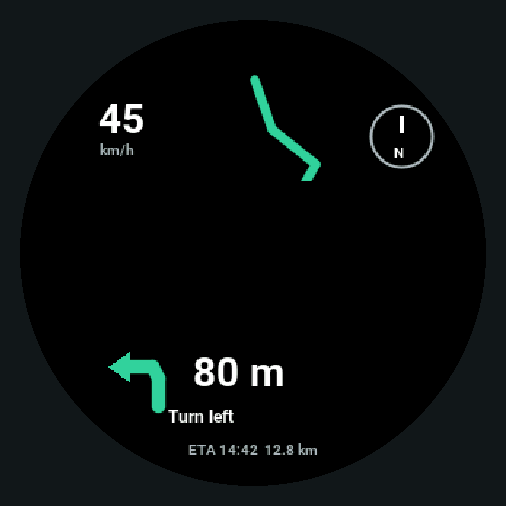
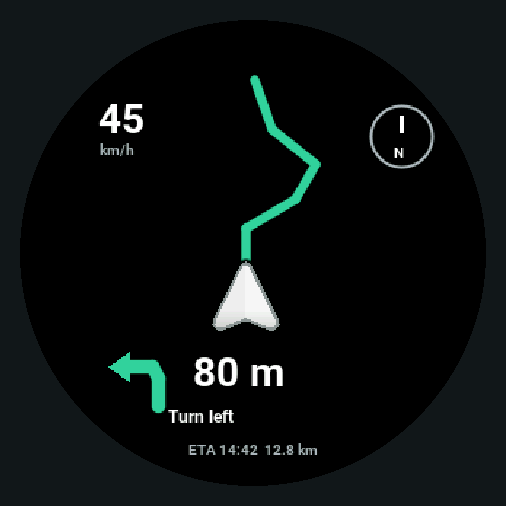
Move turn alerts to left and preserve off-route retry status

Changed region(s): [[0.415, 0.3557, 0.6225, 0.6522]]

diff --git a/tools/preview_round.py b/tools/preview_round.py
@@ -129,16 +129,24 @@ __declspec(dllexport) int render_round(void) {
     assert(memcmp(previous,capture_pixels(),sizeof previous));
     for(int yy=0;yy<320;yy++)for(int xx=0;xx<320;xx++) {
         unsigned at=(yy*320+xx)*2;
-        if(xx>=45 && xx<275 && yy>=111 && yy<211)
-            assert(capture_pixels()[at]==0 && capture_pixels()[at+1]==0);
-        else assert(previous[at]==capture_pixels()[at] && previous[at+1]==capture_pixels()[at+1]);
+        if(xx<32 || xx>=109 || yy<127 || yy>=177)
+            assert(previous[at]==capture_pixels()[at] && previous[at+1]==capture_pixels()[at+1]);
     }
+    memcpy(previous,capture_pixels(),sizeof previous);
+    v.maneuver_state=5;round_ui_navigation(&v);
+    assert(!memcmp(previous,capture_pixels(),sizeof previous)); // Blink off preserves the full map and pointer.
+    v.maneuver_state=3;
     v.nav.direction=5;v.blink_on=true;
     round_ui_navigation(&v);capture_save("turn-right-on.rgb565");
     v.blink_on=false;round_ui_navigation(&v);capture_save("turn-right-off.rgb565");
     v.recovery=RIDE_STALE;round_ui_navigation(&v);capture_save("stale-data.rgb565");
     v.recovery=RIDE_RECONNECTING;round_ui_navigation(&v);capture_save("reconnecting.rgb565");
     v.recovery=RIDE_GPS_WEAK;round_ui_navigation(&v);capture_save("gps-weak.rgb565");
+    v.recovery=RIDE_REROUTING;strcpy(v.nav.instruction,"Off route - rerouting");
+    round_ui_navigation(&v);capture_save("off-route-recalculating.rgb565");
+    strcpy(v.nav.instruction,"Off route - retrying");
+    round_ui_navigation(&v);capture_save("off-route-retrying.rgb565");
+    strcpy(v.nav.instruction,"");
     v.recovery=RIDE_LIVE;v.nav.distance_m=300;v.battery_low=true;v.battery_percent=12;
     round_ui_navigation(&v);capture_save("low-battery.rgb565");v.battery_low=false;
     round_ui_arrival();capture_save("arrival.rgb565");
@@ -205,6 +213,11 @@ for i,(name,label) in enumerate([
     ux.paste(Image.open(OUT/(name+'.png')),(x,y+35))
 d.text((20,1630),'Production renderer / SAMPLE data. Each round display is 466 x 466 pixels. Hardware test still required.',fill='white')
 ux.save(OUT/'ride-experience.png')
+recovery=Image.new('RGB',(1530,570),'#111719');d=ImageDraw.Draw(recovery)
+for i,(name,label) in enumerate([('turn-left-on','MEDIUM LEFT-SIDE TURN ALERT / MAP VISIBLE'),('off-route-recalculating','CONFIRMED OFF ROUTE / RECALCULATING'),('off-route-retrying','REQUEST FAILED / ALERT RETAINED')]):
+    d.text((i*510+15,12),label,fill='white');recovery.paste(Image.open(OUT/(name+'.png')),(i*510,35))
+d.text((15,550),'Production C renderer / SAMPLE telemetry. Physical board and live navigation still need testing.',fill='white')
+recovery.save(OUT/'left-alert-rerouting.png')
 guide=Image.new('RGB',(1020,570),'#111719');d=ImageDraw.Draw(guide)
 for i,(name,label) in enumerate([('u-turn','U-TURN / CURRENT IMPLEMENTATION'),('flyover-current','FLYOVER REQUEST / CURRENT GENERIC EXIT FALLBACK')]):
     d.text((i*510+15,12),label,fill='white')

diff --git a/main/display/round_ui.c b/main/display/round_ui.c
@@ -128,10 +128,13 @@ static void turn_arrow(uint8_t direction) {
 static void turn_chevrons(int side) {
     // Same six-point silhouette as the supplied reference, mirrored for right.
     for(int i=0;i<3;i++) {
-        int x=96+i*36,y=116;
-        int px[]={x+35,x+58,x+23,x+58,x+35,x};
-        int py[]={y,y,y+42,y+84,y+84,y+42};
-        if(side>0)for(int j=0;j<6;j++)px[j]=320-px[j];
+        int px[]={35,58,23,58,35,0};
+        int py[]={0,0,42,84,84,42};
+        for(int j=0;j<6;j++) {
+            if(side>0)px[j]=58-px[j];
+            px[j]=32+i*21+lroundf(px[j]*0.58f);
+            py[j]=127+lroundf(py[j]*0.58f);
+        }
         uint16_t c=i==1?GREEN:shade(GREEN,0.70f);
         tft_fill_triangle(px[0],py[0],px[1],py[1],px[2],py[2],c);
         tft_fill_triangle(px[0],py[0],px[2],py[2],px[5],py[5],c);
@@ -159,11 +162,8 @@ static void draw_nav(void *context) {
     if(v->count<2)text(160,125,"WAITING FOR ROUTE",12,MUTED);
     int rider_x=RIDER_X,rider_y=RIDER_Y;
     if(v->overview && v->count){point_t p=route_point(v,0);rider_x=lroundf(p.x);rider_y=lroundf(p.y);}
-    if(live && !alert)arrow(rider_x,rider_y,v->overview?m->heading:v->tilt);
-    if(alert) {
-        tft_fill_rect(45,111,230,100,BLACK);
-        if(v->blink_on)turn_chevrons(ride_turn_side(m->direction));
-    }
+    if(live)arrow(rider_x,rider_y,v->overview?m->heading:v->tilt);
+    if(alert && v->blink_on)turn_chevrons(ride_turn_side(m->direction));
     char value[24];
     if(m->speed_valid && live)snprintf(value,sizeof(value),"%u",m->speed);
     else strcpy(value,"--");
@@ -191,10 +191,13 @@ static void draw_nav(void *context) {
     if(live && v->trip_valid)snprintf(value,sizeof(value),"ETA %s  %.1f km",v->arrival_time[0]?v->arrival_time:"--:--",m->remaining_km);
     else strcpy(value,"ETA --:--   -- km");
     text(160,289,value,10,MUTED);
-    static const char *states[]={"","RECONNECTING","SYNCING ROUTE","GPS WEAK","REROUTING","PAUSED","WAITING FOR PHONE"};
+    static const char *states[]={"","RECONNECTING","SYNCING ROUTE","GPS WEAK","OFF ROUTE","PAUSED","WAITING FOR PHONE"};
     if(!live) {
         text(160,24,states[v->recovery<=RIDE_STALE?v->recovery:RIDE_STALE],12,GREEN);
-        text(160,100,"LAST ROUTE - DATA STALE",10,MUTED);
+        const char *status=v->recovery==RIDE_REROUTING
+            ? (strstr(m->instruction,"retrying")?"RETRYING ROUTE":"RECALCULATING ROUTE")
+            : "LAST ROUTE - DATA STALE";
+        text(160,100,status,10,MUTED);
     } else if(v->battery_low) {
         snprintf(value,sizeof(value),"LOW BATTERY ~%u%%",v->battery_percent);
         text(160,24,value,10,GREEN);

diff --git a/main/ble/ble.c b/main/ble/ble.c
@@ -928,7 +928,7 @@ static int ble_nav_data_access(uint16_t conn_handle, uint16_t attr_handle,
         if(opcode==NAV_OP_PAUSE || (flags&(1<<4))) {
             strncpy(nav_data.current_street,"PAUSED",sizeof(nav_data.current_street)-1);
         } else if (opcode == NAV_OP_REROUTE || is_reroute) {
-            strncpy(nav_data.current_street, "REROUTING...", sizeof(nav_data.current_street) - 1);
+            strncpy(nav_data.current_street, street_buf[0]?street_buf:"REROUTING...", sizeof(nav_data.current_street) - 1);
         } else if (opcode == NAV_OP_ARRIVED) {
             strncpy(nav_data.current_street, "DESTINATION REACHED", sizeof(nav_data.current_street) - 1);
         } else {

diff --git a/main/display/display.c b/main/display/display.c
@@ -1013,7 +1013,7 @@ static void display_nav_render_partial(void) {
     if(!s_ble_connected)instruction="PHONE OFFLINE";
     else if(!s_phone_state_ready)instruction="SYNCING";
     else if(!s_nav.gps_available)instruction="GPS LOST";
-    else if(s_nav.rerouting)instruction="REROUTING";
+    else if(s_nav.rerouting)instruction=s_nav.current_street;
   }
   snprintf(model.instruction,sizeof(model.instruction),"%s",instruction);
   for(int i=0;i<2;i++){model.poi_valid[i]=s_pois[i].poi_type==i+1 && s_pois[i].poi_name[0];model.poi_distance[i]=s_pois[i].poi_distance_m;}

diff --git a/WAVESHARE_143.md b/WAVESHARE_143.md
@@ -18,10 +18,11 @@ coordinates are mapped through the same transform.
 
 ### Riding experience
 
-- Within 100 m of a left/right maneuver, three large **green chevrons** use the
-  supplied reference silhouette, mirrored for right. They blink 500 ms on / 500
-  ms off. The smaller direction arrow and distance remain visible during blink
-  off. Completed maneuvers, overview, paused or unreliable guidance do not blink.
+- Within 100 m of a left/right maneuver, three medium **green chevrons on the left**
+  use the supplied reference silhouette. Right-turn chevrons mirror inside that
+  same left-side area. They blink 500 ms on / 500 ms off. The route and white rider
+  pointer remain visible in both phases; no large black rectangle covers the map.
+  Completed maneuvers, overview, paused or unreliable guidance do not blink.
 - The lower guidance panel includes arrival clock time (24-hour `ETA HH:MM`) and
   total remaining kilometres from the phone's existing route telemetry. A valid
   phone-synchronized clock is required for ETA; unavailable values show dashes.
@@ -33,6 +34,15 @@ coordinates are mapped through the same transform.
   This does **not** refresh an old GPS fix: fixes older than ten seconds or with
   accuracy worse than 50 m produce `GPS WEAK` on the display and suppress turn
   alerts. The existing longer phone GPS recovery loop continues in the background.
+- Confirmed off-route detection shows **OFF ROUTE / RECALCULATING ROUTE** on the
+  device and an off-route banner on the phone. Failed/empty route responses retain
+  the warning as **RETRYING ROUTE**, with the old route dimmed and old turn guidance
+  suppressed. Requests back off from 20 to 80 seconds after failures and retry on
+  a fresh accurate GPS update. Initial confirmation still requires movement,
+  accurate fixes, three outside-corridor samples and four seconds of deviation.
+  Once confirmed, retry can continue while stationary. Between requests, accurate
+  moving fixes back inside the original corridor clear the warning without another request. A new
+  route resets guidance and geometry; a response after Stop is ignored.
 - `LOW BATTERY` appears on navigation at an estimated level ≤15%, only when supply
   measurements infer battery power. Five consecutive one-second low samples
   trigger one notification; it rearms after USB power or an estimate ≥20%. Missing
@@ -50,6 +60,7 @@ coordinates are mapped through the same transform.
 [Left turn blink, native 466×466](docs/previews/turn-left-blink-466.gif) ·
 [Right turn blink, native 466×466](docs/previews/turn-right-blink-466.gif) ·
 [Arrival, native 466×466](docs/previews/arrival-native.png).
+![Medium left alert and rerouting states — SAMPLE telemetry](docs/previews/left-alert-rerouting.png)
 The preview's outside margin is decorative; the actual panel is 466×466.
 The firmware retains its existing 320×320 logical drawing canvas and maps it
 through the production panel transform. No photograph or hardware timing is claimed.

diff --git a/WAVESHARE_143_VALIDATION.md b/WAVESHARE_143_VALIDATION.md
@@ -4,8 +4,8 @@ Software verification passed before pushing this branch.
 
 | Check | Result |
 |---|---|
-| ESP-IDF 5.5.5 / ESP32-S3 build | Pass; application 822,016 bytes, 54% OTA-slot space free |
-| ESP-IDF 5.5.5 / original ESP32 2.8-inch build | Pass; application 769,312 bytes, 57% OTA-slot space free |
+| ESP-IDF 5.5.5 / ESP32-S3 build | Pass; application 822,256 bytes, 54% OTA-slot space free |
+| ESP-IDF 5.5.5 / original ESP32 2.8-inch build | Pass; application 769,328 bytes, 57% OTA-slot space free |
 | Actual QSPI transport with mocked SPI/GPIO | Pass for SH8601 and CO5300 IDs/offsets, fragmented writes, even-row DMA and unchanged-row suppression |
 | Actual FT3168 driver with mocked I2C | Pass for contact mapping, release and read failure |
 | Round C renderer and geometry | Pass; all preview screens generated from the production functions |
@@ -21,6 +21,8 @@ Software verification passed before pushing this branch.
 | Both panel standby transports | Pass with mocked I/O; 0x28/0x29, duplicate suppression, no asleep pixel writes, full frame/brightness restore |
 | Raw-contact wake handling | Pass; first held touch is consumed, one isolated failed/release sample is tolerated, next separate tap works, outside-pane FT3168 contact is retained |
 | App maneuver gap diagnostics | Four reproductions passed, confirming current ramp/U-turn/roundabout/parallel-road limitations; see NAVIGATION_GAPS.md |
+| Rerouting pipeline | Three actual NavigationService tests with mocked GPS/routes passed: failed request retains warning and backs off before success, returning to the old route clears the warning, late response after Stop is ignored |
+| App regression run | 41 tests passed, including the four existing gap diagnostics; three rerouting integration tests passed separately |
 
 The companion APK source is in the separate MobileApp checkout; no private app
 source is published in this firmware repository. Its power card was widget-tested
@@ -28,8 +30,9 @@ for live battery/USB changes and disconnect clearing. This is mocked telemetry,
 not a physical BLE session. The APK includes a separate S3 firmware asset and
 refuses OTA images for the wrong ESP chip.
 
-The round preview fixture checks that blink off clears only the chevron rectangle:
-speed, maneuver distance, trip footer and other pixels stay unchanged. Both
+The round preview fixture checks that the medium left overlay changes only its
+small bounds, and that blink off matches a normal frame exactly, preserving the
+route, pointer, speed, maneuver distance and trip footer. Both
 directions are captured on/off, with 466×466 two-frame GIFs (500 ms per frame).
 Recovery tests cover five-second packet expiry, disconnect, sync, weak GPS,
 rerouting, pause and automatic return to live state. Turn alerts are suppressed

diff --git a/NAVIGATION_GAPS.md b/NAVIGATION_GAPS.md
@@ -2,7 +2,8 @@
 
 This review traces the companion app's provider mapping, maneuver state, BLE
 encoding and the round firmware renderer. These are current code limitations,
-not newly invented requirements. No additional navigation features were added.
+not newly invented requirements. The rerouting status fix and medium left-side
+alert layout are described in WAVESHARE_143.md; the limitations below remain.
 
 | Confirmed gap | Code evidence and rider-visible consequence |
 |---|---|
